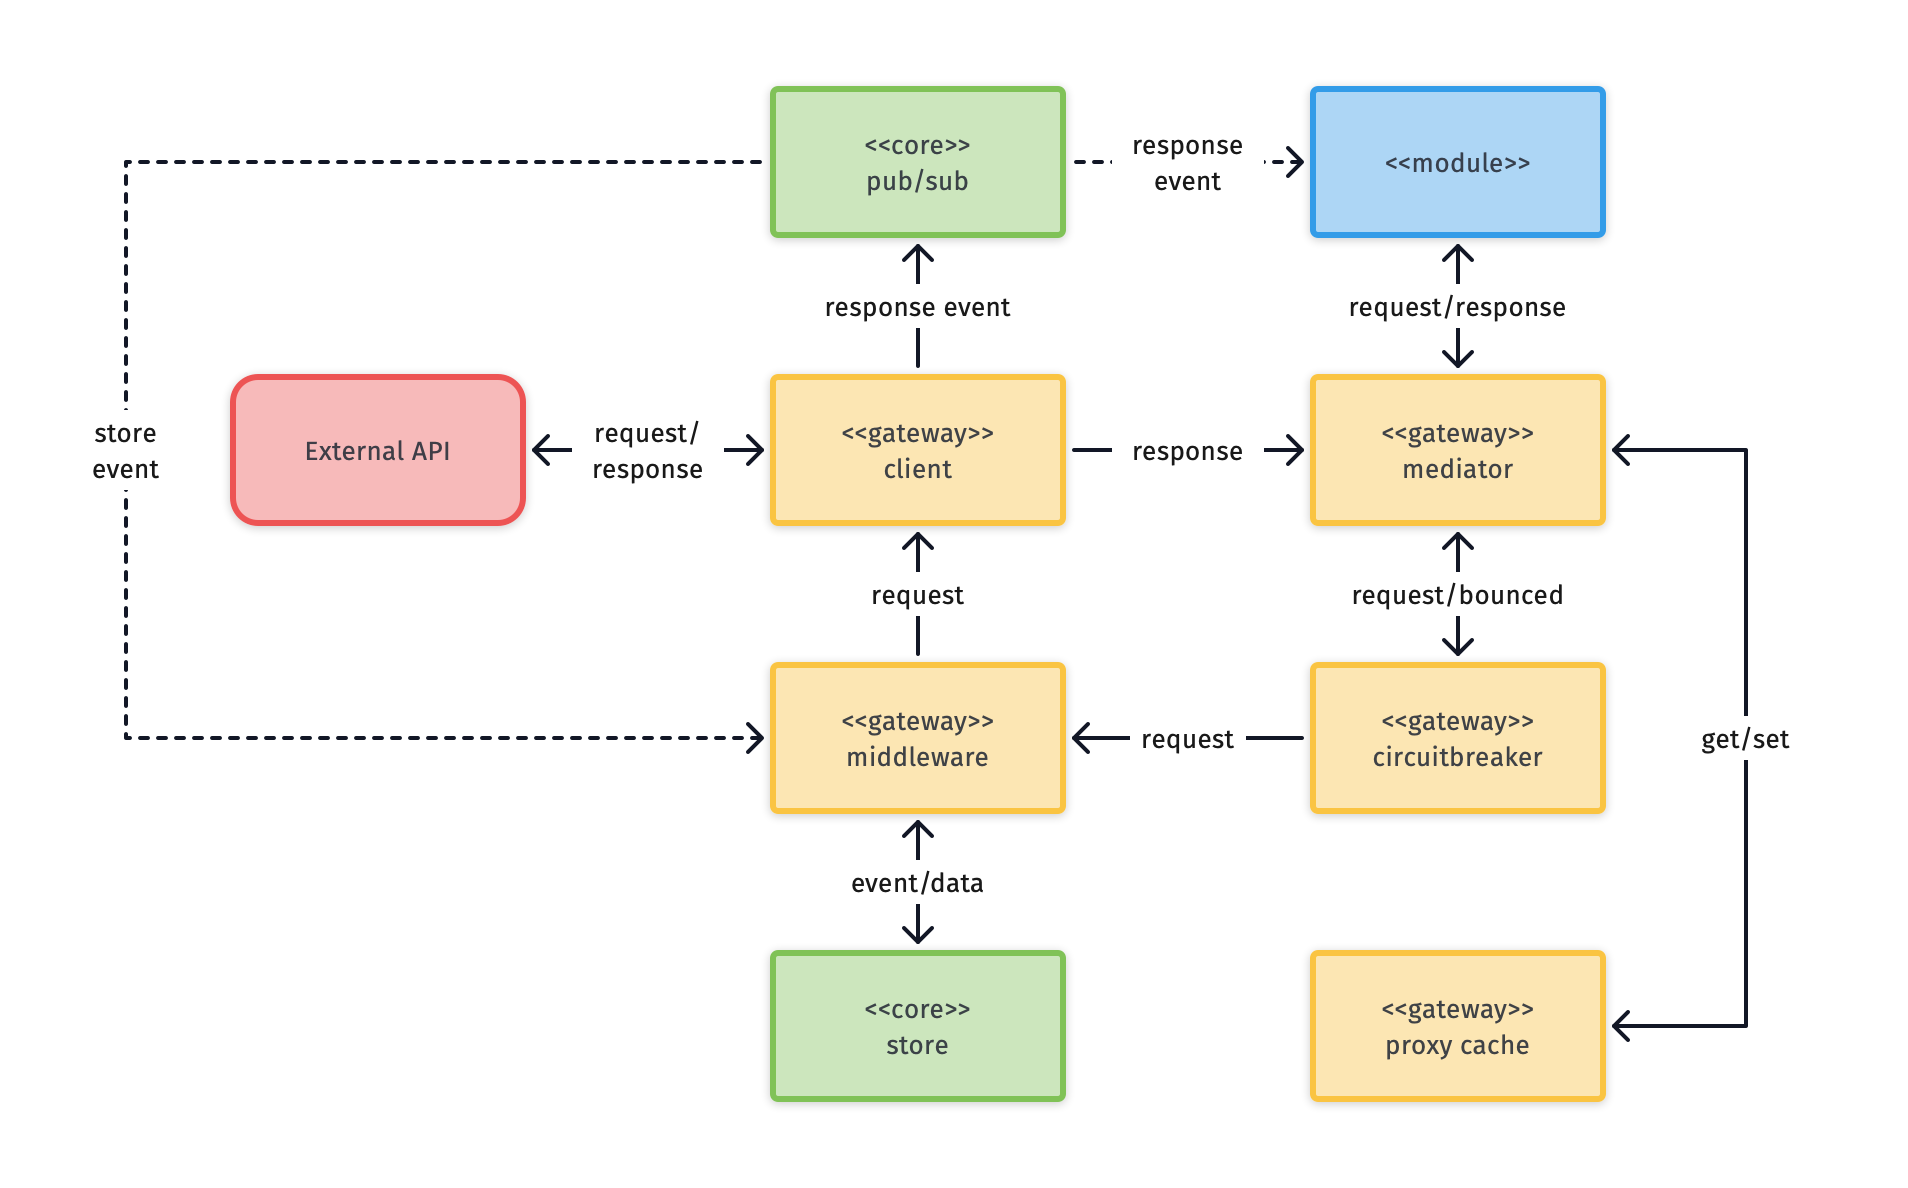
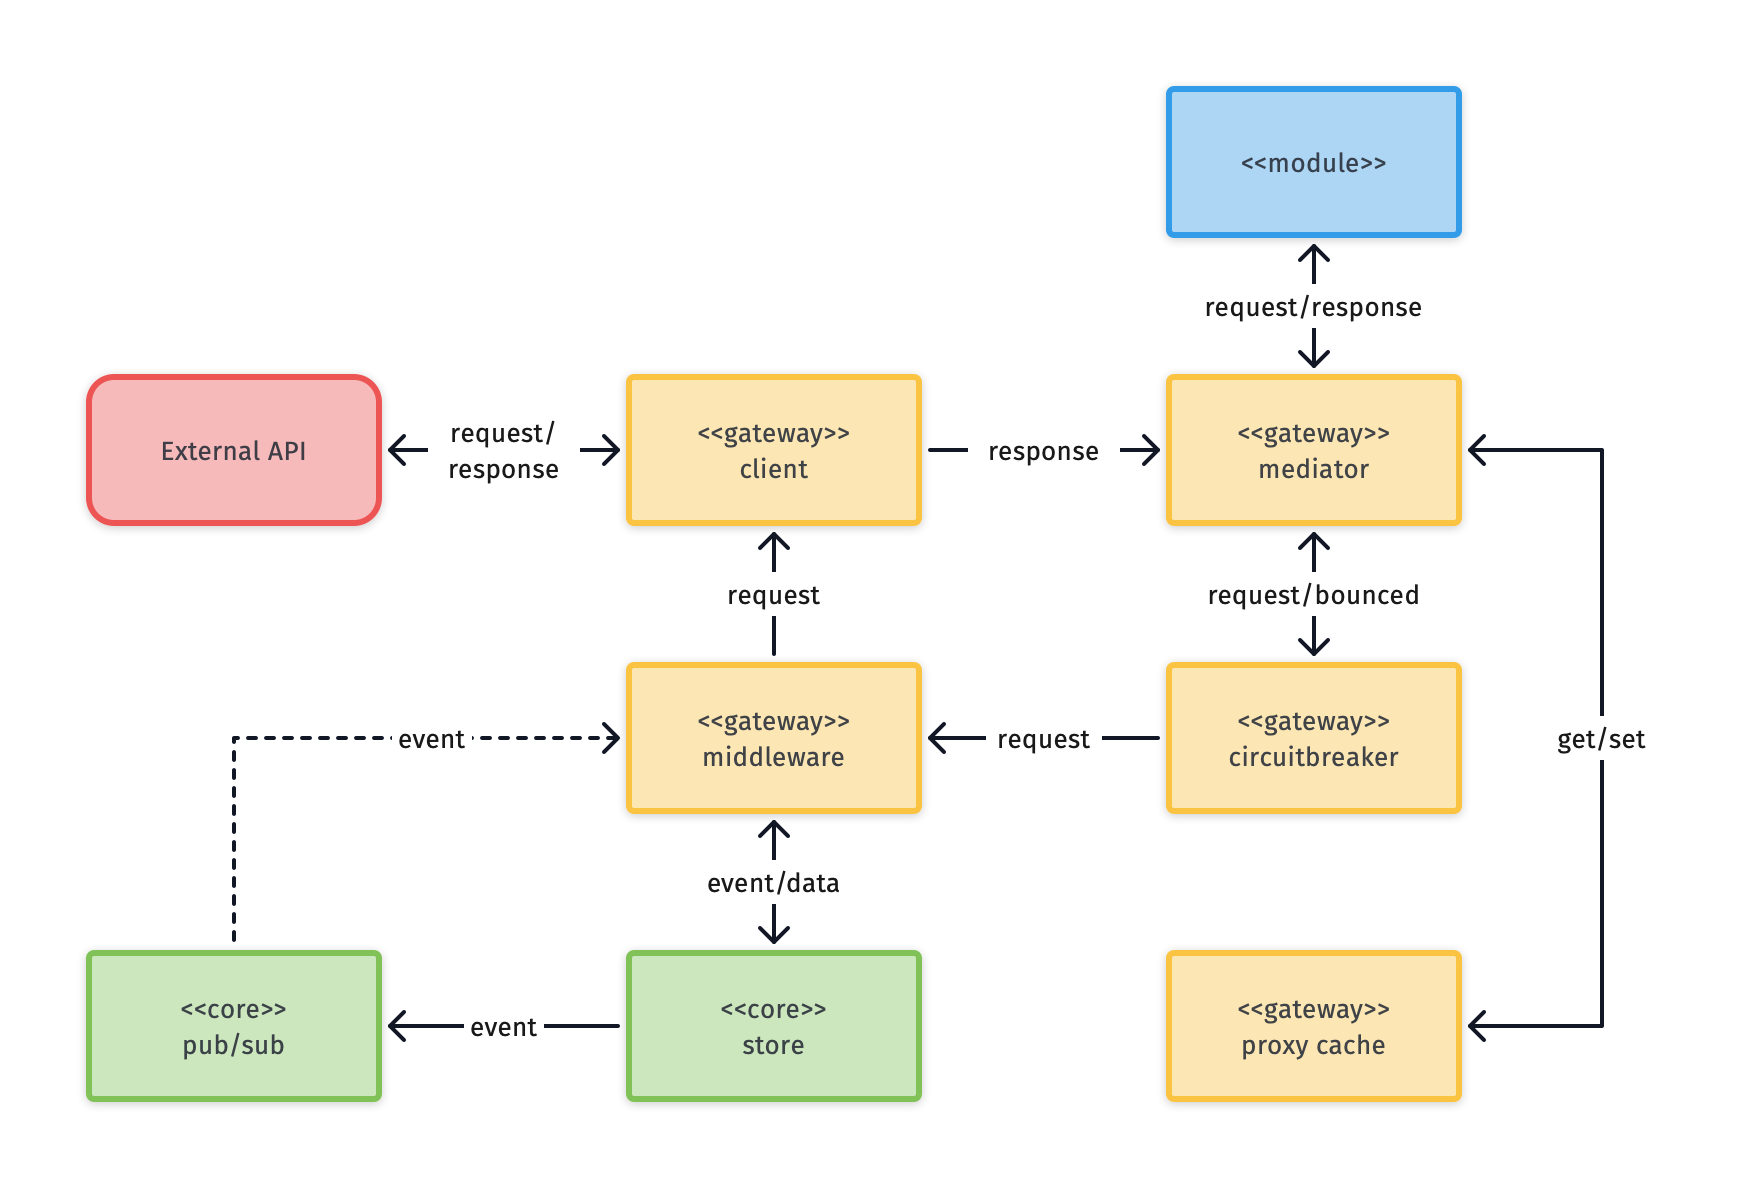
updated the gateway

diff --git a/README.md b/README.md
@@ -1,6 +1,8 @@
 # Front-end reference architecture
 
-_Author(s)_: Kevin Pennekamp | front-end architect | [kevtiq.co](https://kevtiq.co) | <hello@kevtiq.co>
+_version_: 0.2.1
+_Author(s)_: Kevin Pennekamp | front-end architect | [kevtiq.dev](https://kevtiq.dev) | <hello@kevtiq.dev>
+
 
 This document describes a reactive front-end reference architecture for digital enterprises. It offers a framework-agnostic architectural best practices focused on the application behind the user interface.
 
@@ -71,7 +73,9 @@ Each request, regardless of the related external source, goes through the mediat
 - A [**circuit breaker**](https://en.wikipedia.org/wiki/Circuit_breaker_design_pattern) maintains the state of the external source. If a server error is received, outgoing requests are bounced to prevent reoccurring failure.
 - Each request is enhanced or aborted by a chain of **middleware** (e.g. the refreshing of authentication information). Each middleware in the chain has access to the application store and it can subscribe to store events via the pub/sub.
 
-A response can be provided back to in the initiator in several ways. It can get back a value from the cache, wait for the response, or update reactively through the pub/sub. In case of a `cache-network` strategy a combination is used. The initiator gets back a cached value back first. After the response comes in, the initiator reactively updates to the new values.
+After the middleware, the correct `client` is chosen by the mediator. After a response is received, the mediator sends it back to the request initiator and the cache. In case of a `cache-network` strategy, the mediator first gives back a value from the cache to the initiator, before the request is send through the middleware and client. After the response is received, the cache is updated and the initiator receives the updated value. 
+
+> **NOTE**: in case your chosen UI framework does not allow of UI updates around asynchronous calls, you can utilize the pub/sub. The client can send the response through the pub/sub next to sending it back to the mediator. UI components from the `<<module>>` can subscribe to pub/sub to receive the response. 
 
 ## Modules
 

diff --git a/CHANGELOG.md b/CHANGELOG.md
@@ -1,0 +1,3 @@
+# CHANGE LOG
+## Version 0.2.1
+- Updated the diagram and text in the 'API gateway' section. The client does not send an event via the pub/sub, as UI components can update UI state around async code themselves, so the do not need an observer pattern. In addition, a link between the store and the pub/sub is added to complete the section around the middleware.
